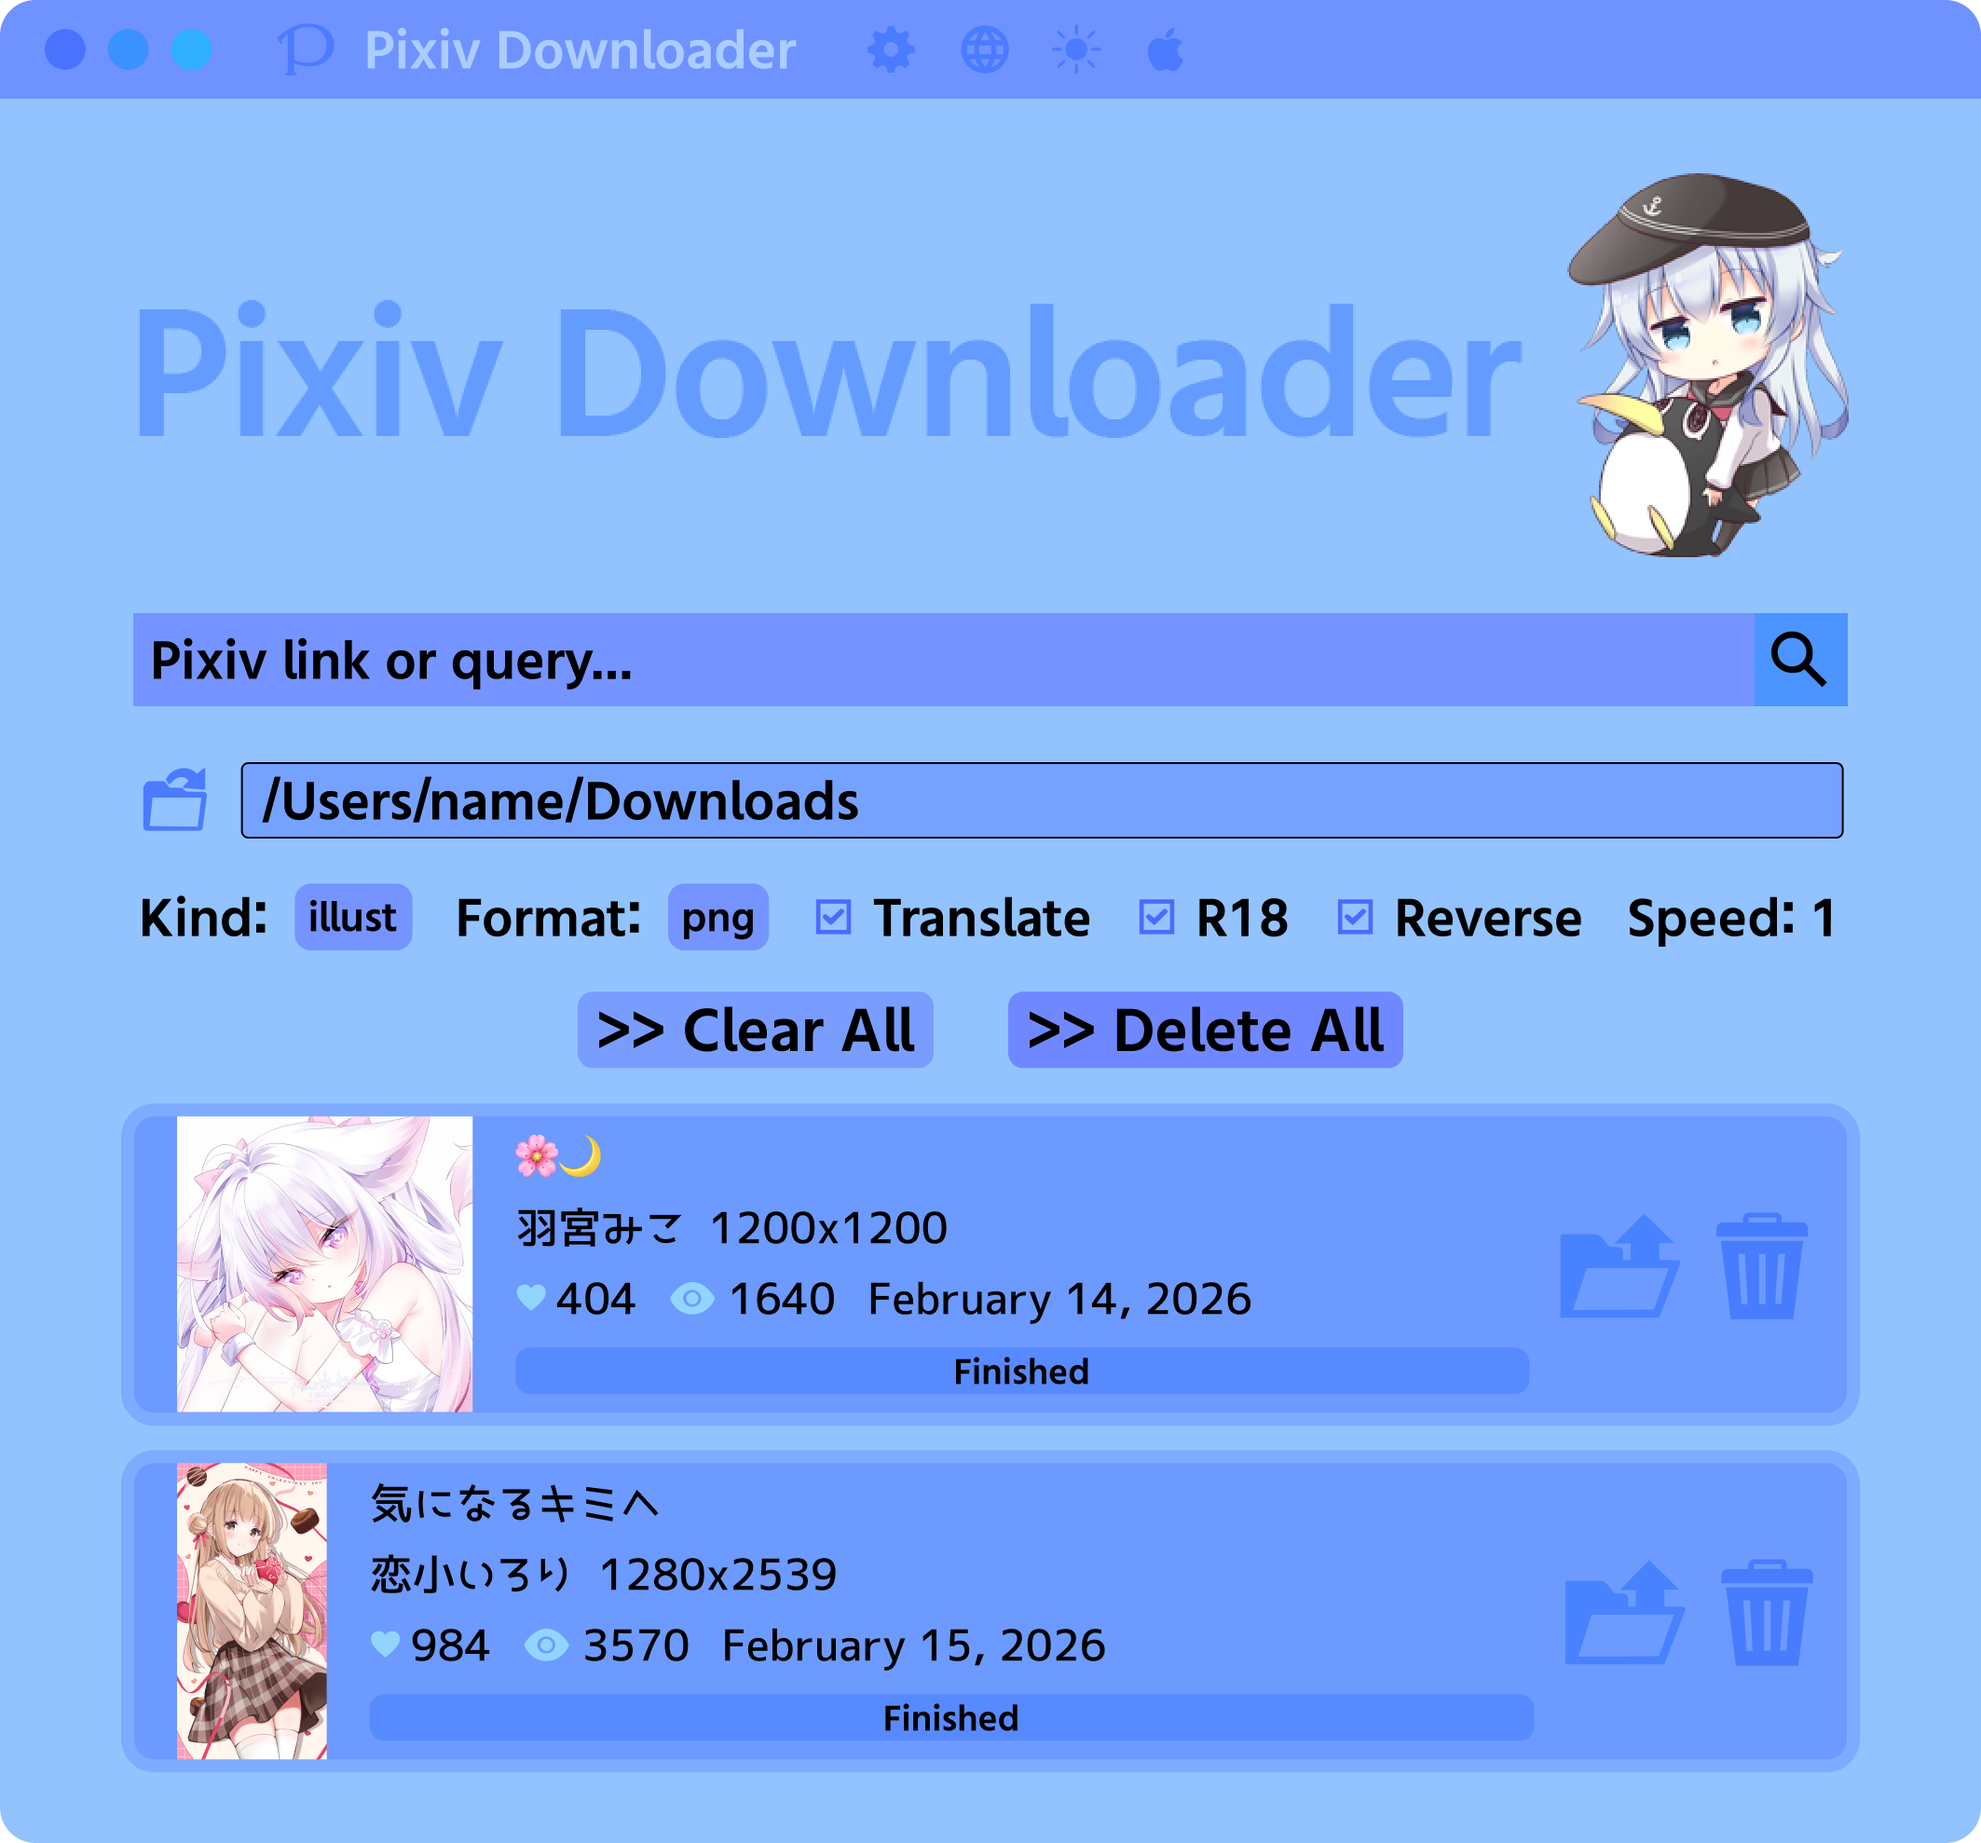
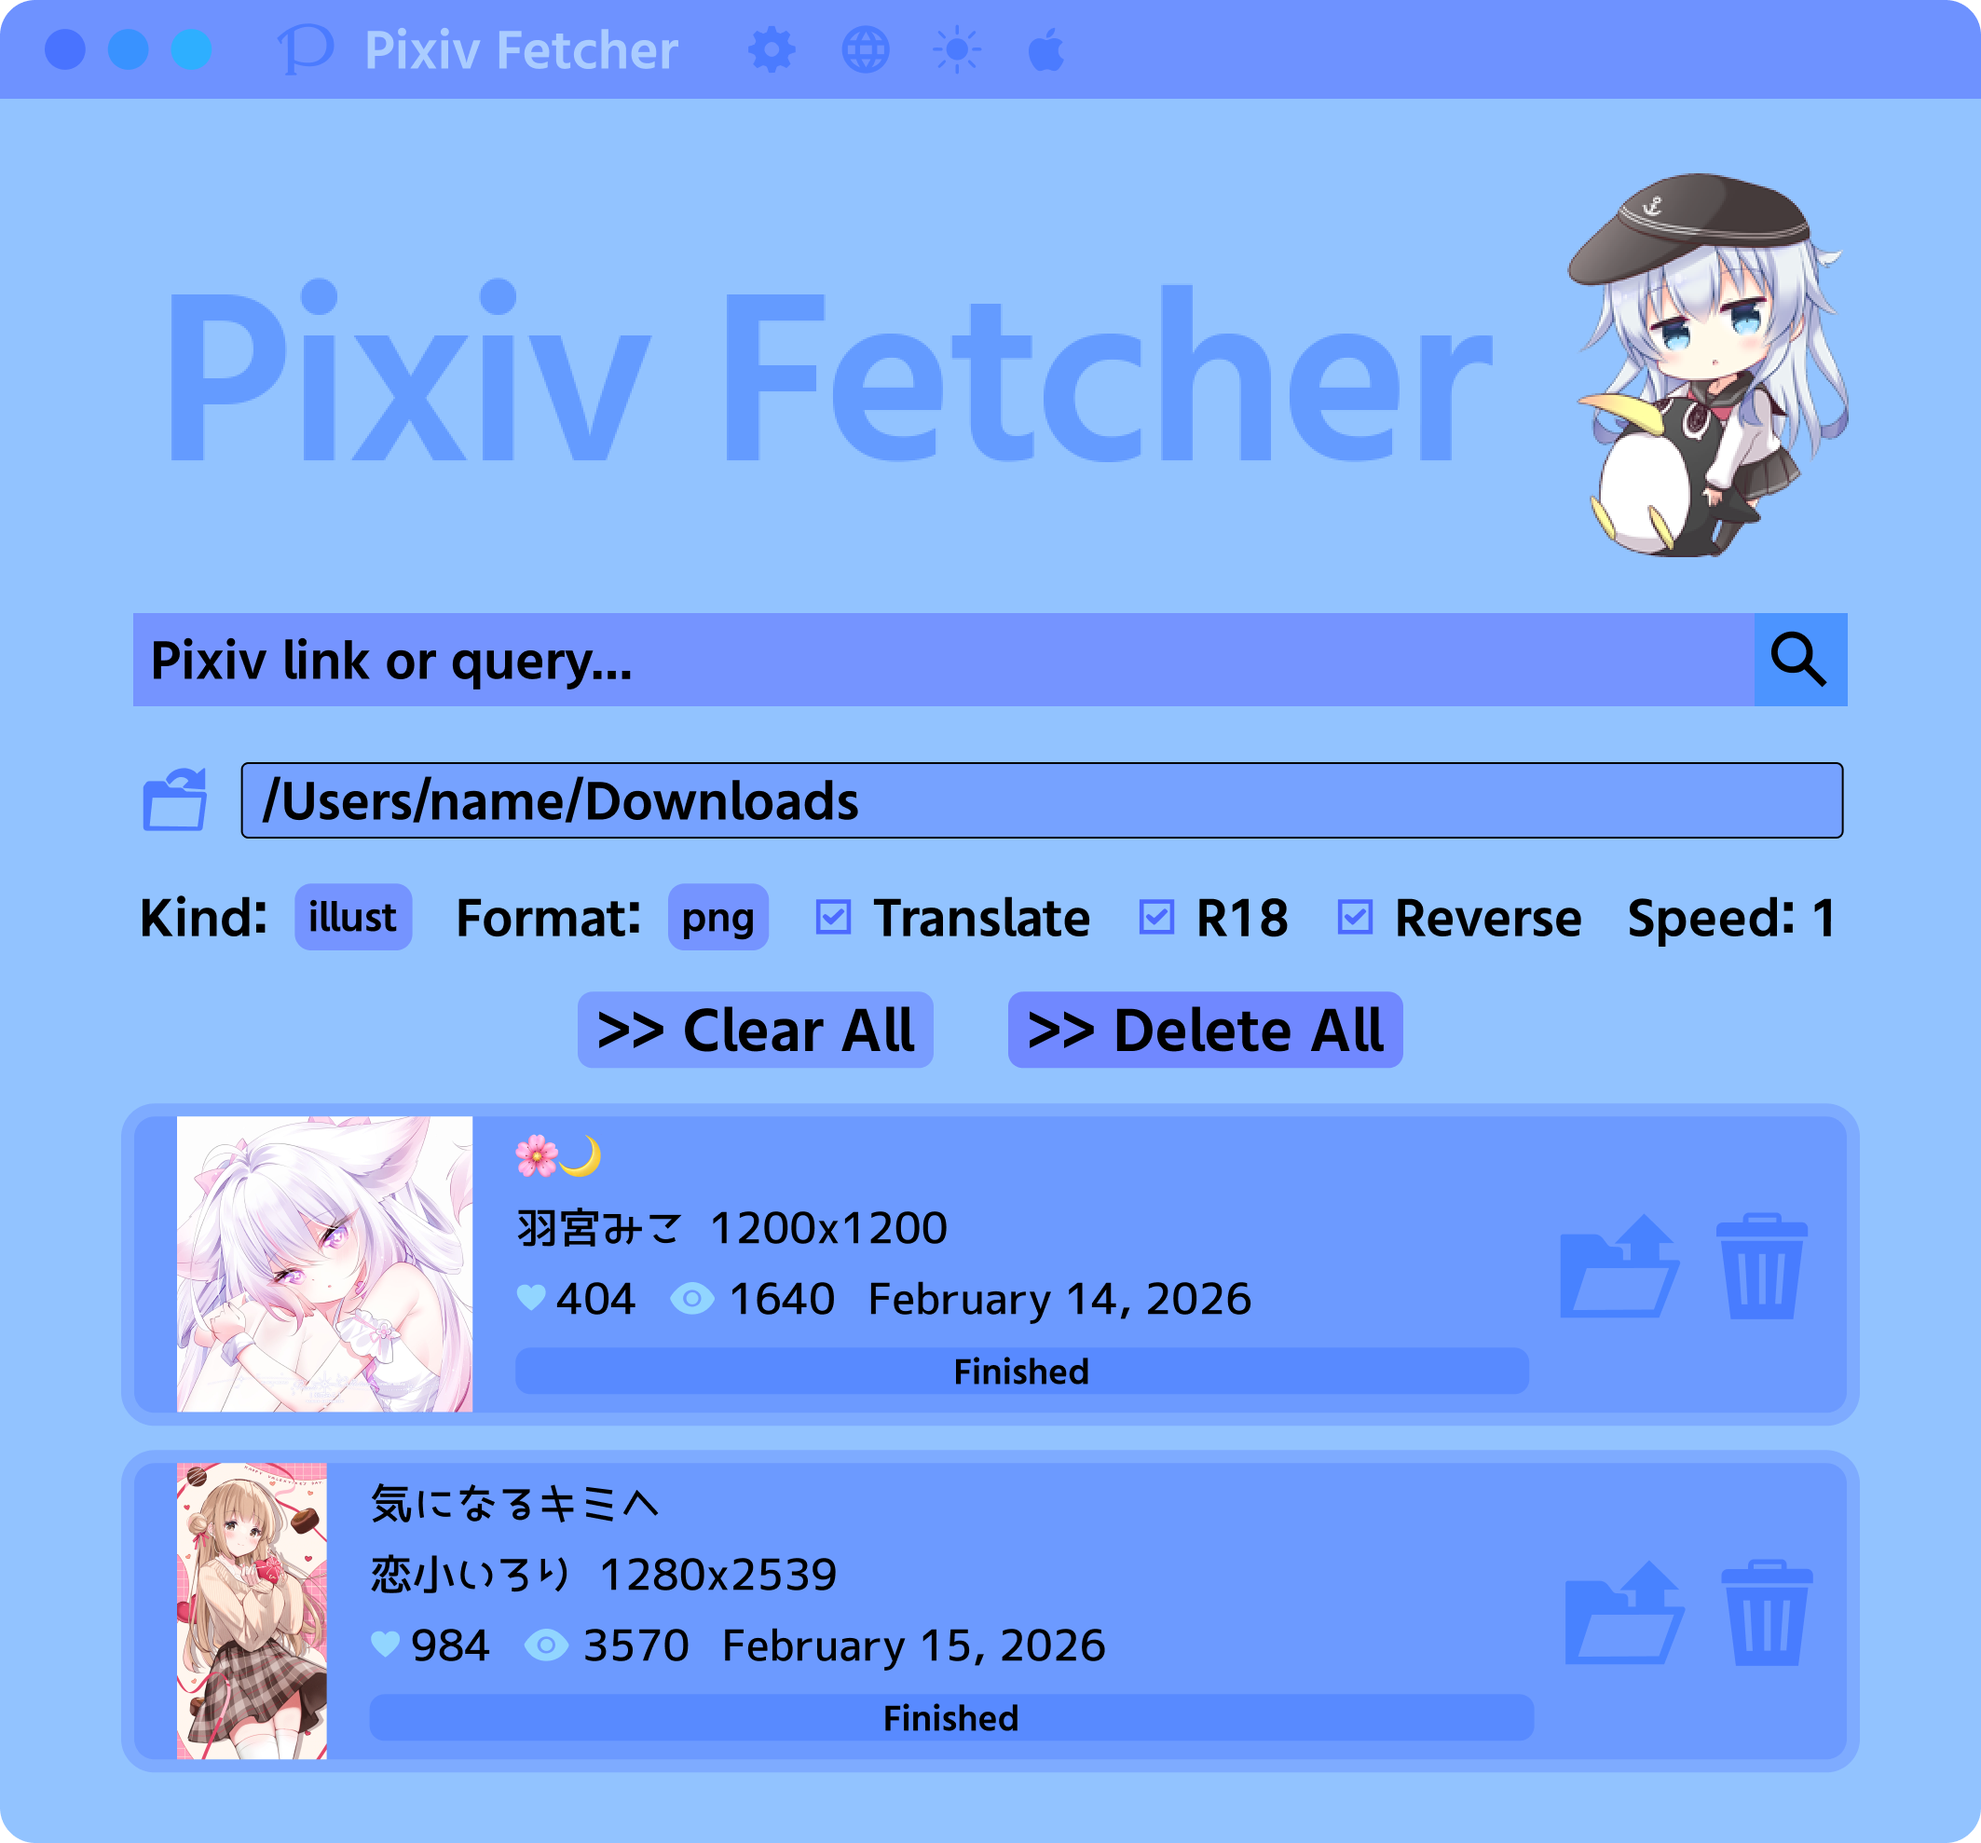
rename app

Changed region(s): [[0.0621, 0.1542, 0.7761, 0.2467], [0.2484, 0.0, 0.5898, 0.0617]]

diff --git a/components/TitleBar.tsx b/components/TitleBar.tsx
@@ -70,7 +70,7 @@ const TitleBar: React.FunctionComponent = (props) => {
                 </div>
                 <div className="title-container">
                     <Icon className="app-icon"/>
-                    <span className="title">Pixiv Downloader</span>
+                    <span className="title">Pixiv Fetcher</span>
                 </div>
                 <div className="title-button-container">
                     <SettingsIcon className="title-bar-button" onClick={settings}/>
@@ -90,7 +90,7 @@ const TitleBar: React.FunctionComponent = (props) => {
             <div className="title-group-container">
                 <div className="title-container">
                     <Icon className="app-icon"/>
-                    <span className="title">Pixiv Downloader</span>
+                    <span className="title">Pixiv Fetcher</span>
                 </div>
                 <div className="title-button-container">
                     <SettingsIcon className="title-bar-button" onClick={settings}/>

diff --git a/browser.html b/browser.html
@@ -4,7 +4,7 @@
   <meta charset="UTF-8">
   <meta name="viewport" content="width=device-width, initial-scale=1.0">
   <meta http-equiv="X-UA-Compatible" content="ie=edge">
-  <title>Pixiv Downloader</title>
+  <title>Pixiv Fetcher</title>
 </head>
 <body>
   <div id="root"></div>

diff --git a/index.html b/index.html
@@ -4,7 +4,7 @@
   <meta charset="UTF-8">
   <meta name="viewport" content="width=device-width, initial-scale=1.0">
   <meta http-equiv="X-UA-Compatible" content="ie=edge">
-  <title>Pixiv Downloader</title>
+  <title>Pixiv Fetcher</title>
 </head>
 <body>
   <div id="root"></div>

diff --git a/readme.md b/readme.md
@@ -1,4 +1,4 @@
-## Pixiv Downloader
+## Pixiv Fetcher
 
 <img src="assets/images/readme.png">
 
@@ -46,18 +46,18 @@ For better accuracy provide the tags in Japanese, but they will be automatically
 
 ### Design
 
-Our design is available here: https://www.figma.com/design/utGtwyDdkigOGlfYjFYQiD/Pixiv-Downloader
+Our design is available here: https://www.figma.com/design/utGtwyDdkigOGlfYjFYQiD/Pixiv-Fetcher
 
 *New design is wip
 
 ### Installation
 
-Download from [releases](https://github.com/Moebytes/Pixiv-Downloader/releases).
+Download from [releases](https://github.com/Moebytes/Pixiv-Fetcher/releases).
 
 ### MacOS
 
 On MacOS unsigned applications won't open, run this to remove the quarantine flag.
 ```
-xattr -d com.apple.quarantine "/Applications/Pixiv Downloader.app"
+xattr -d com.apple.quarantine "/Applications/Pixiv Fetcher.app"
 ```
 
